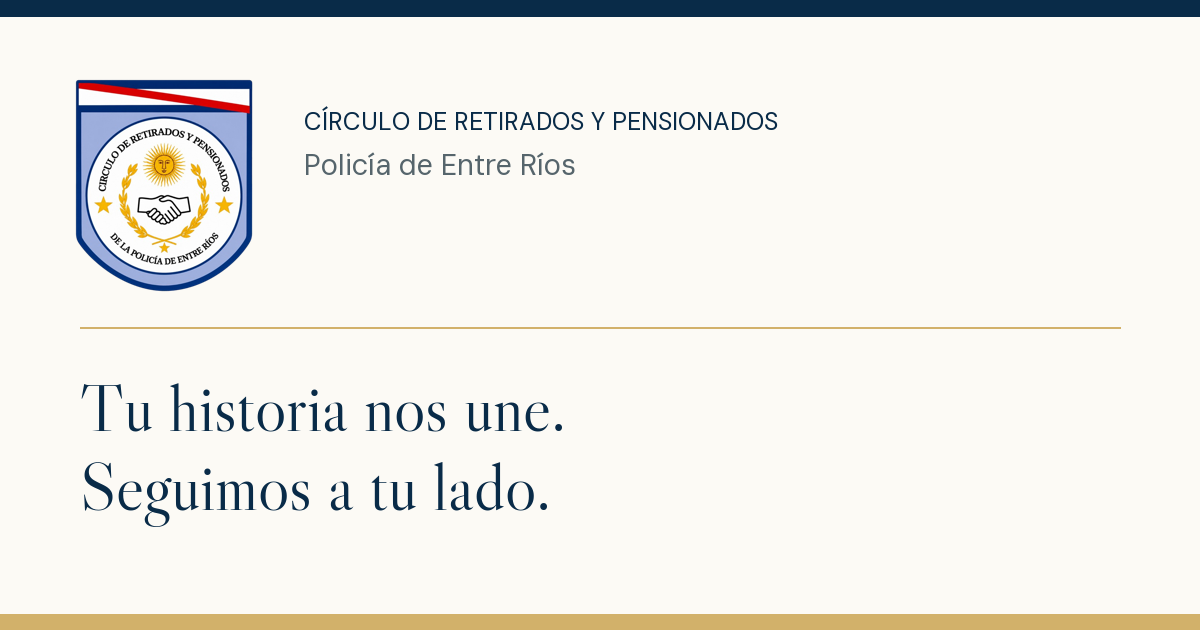
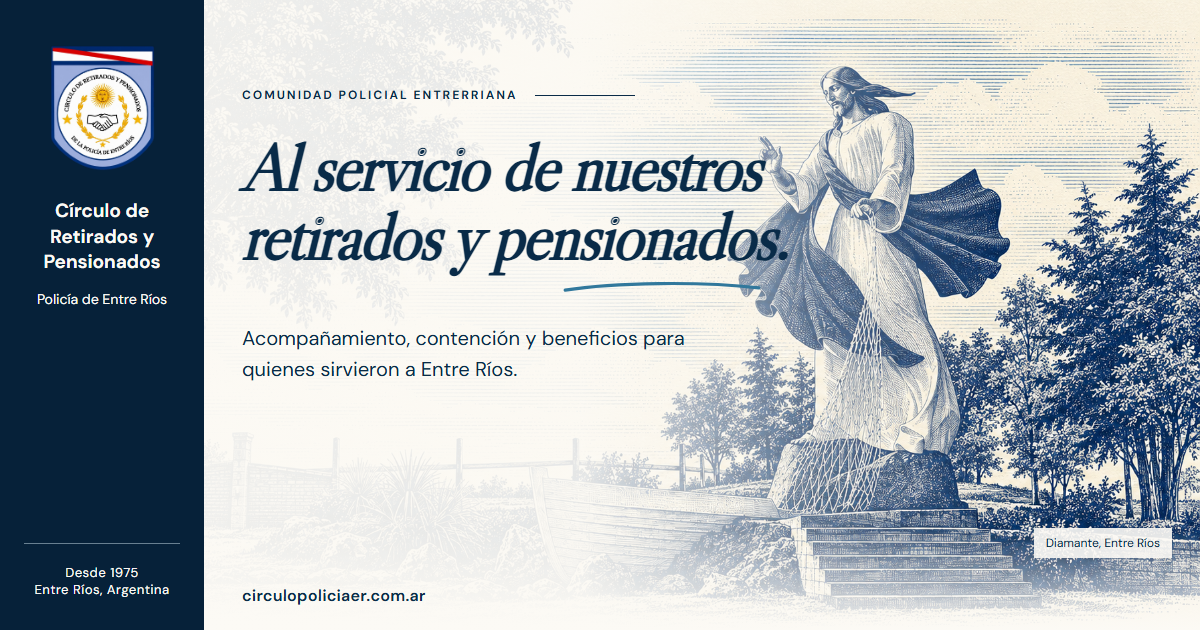
Actualizar la tarjeta social con la identidad del inicio actual (#15)

diff --git a/tools/docs/build_social_card.py b/tools/docs/build_social_card.py
@@ -1,11 +1,6 @@
+"""Compatibility entry point for the current portal social card renderer."""
 from pathlib import Path
-r = Path(__file__).resolve().parents[2]
-from PIL import Image, ImageDraw, ImageFont
-im=Image.new('RGB',(1200,630),'#fcfaf5');d=ImageDraw.Draw(im)
-d.rectangle((0,0,1200,16),fill='#092b48');d.rectangle((0,614,1200,630),fill='#d2b16a')
-crest=Image.open(r/'public/assets/escudo.png').convert('RGBA');crest.thumbnail((180,220));im.paste(crest,(74+(180-crest.width)//2,78),crest)
-f=r/'tools/docs/fonts';dm=lambda n:ImageFont.truetype(str(f/'DMSans-Variable.ttf'),n);cas=ImageFont.truetype(str(f/'LibreCaslonDisplay-Regular.ttf'),66)
-d.text((304,105),'CÍRCULO DE RETIRADOS Y PENSIONADOS',font=dm(25),fill='#092b48');d.text((304,146),'Policía de Entre Ríos',font=dm(29),fill='#56656c')
-d.line((80,327,1120,327),fill='#d2b16a',width=2)
-d.text((80,366),'Tu historia nos une.',font=cas,fill='#092b48');d.text((80,445),'Seguimos a tu lado.',font=cas,fill='#092b48')
-im.save(r/'public/assets/social-card.png',optimize=True)
+import subprocess
+
+root = Path(__file__).resolve().parents[2]
+subprocess.run(["node", str(root / "tools/docs/build_social_card.mjs")], cwd=root, check=True)

diff --git a/docs/seo.md b/docs/seo.md
@@ -8,7 +8,7 @@ SITE_URL es el origen HTTPS aprobado, sin ruta, query ni credenciales. SEO_INDEX
 
 Estas variables se leen del entorno del proceso de build. No se requiere archivo .env. Configurarlas en la cuenta de hosting una vez confirmado el dominio; reservar SEO_INDEXABLE=true para producción. Un build sin dominio que intenta indexarse falla explícitamente. No configurar la URL privada histórica de Sites.
 
-El layout conserva title y description de la colección institucional, con propiedades por página. Incluye Open Graph, es_AR, tarjeta Twitter y textos alternativos. La imagen PNG de 1200 × 630 está preparada en public/assets/social-card.png, usando escudo, fuentes y mensaje existentes. Las URLs absolutas de imagen se emiten cuando SITE_URL existe. Generador opcional: tools/docs/build_social_card.py, Pillow y fuentes locales; no dependencia de la web.
+El layout conserva title y description de la colección institucional, con propiedades por página. Incluye Open Graph, es_AR, tarjeta Twitter y textos alternativos. La imagen PNG de 1200 × 630 está preparada en public/assets/social-card.png, usando escudo, fuentes y mensaje existentes. Las URLs absolutas de imagen se emiten cuando SITE_URL existe. Tarjeta actualizada el 03/11/2026 con el grabado de Diamante, el escudo, las fuentes y el mensaje del inicio actual. La URL de imagen incluye una versión para distinguirla de la tarjeta anterior. Generador opcional: `node tools/docs/build_social_card.mjs`, con Playwright y fuentes locales; no agrega dependencias al navegador. El script Python anterior se conserva como acceso compatible al mismo generador.
 
 El sitemap de producción enumera únicamente la portada, ruta pública actual. La 404 tiene noindex, enlaces al inicio y contacto; debe mantener estado HTTP 404. No cambiar esto por una redirección global a la portada.
 
